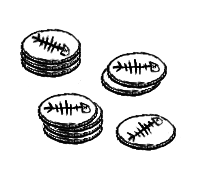
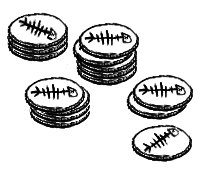
adds underlay for cat-A-log and 5 coin stack

Changed region(s): [[0.0288, 0.0549, 0.9519, 0.9066], [0.5769, 0.6593, 0.6058, 0.6868]]

diff --git a/index.html b/index.html
@@ -117,13 +117,14 @@
             game.load.image('storeBackground', 'assets/images/catalog.png');
             game.load.image('storeForeground', 'assets/images/catalogalpha.png');
             game.load.image('storeCloseButton', 'assets/images/closebutton.png');
+            game.load.image('storeOpenButton', 'assets/images/catalogtag.png');
 
             game.load.bitmapFont('child', 'assets/images/ashcan.png', 'assets/images/ashcan.fnt');
 
             game.load.spritesheet('decktext', 'assets/images/decktext202x34.png', 202, 34, 5);
             game.load.spritesheet('cvalue', 'assets/images/cvalue60x70.png', 60, 70, 13);
             game.load.spritesheet('csuit', 'assets/images/csuits100x100.png', 100, 100, 4);
-            game.load.spritesheet('coinstack', 'assets/images/fishcoins75x55.png', 75, 55, 5);
+            game.load.spritesheet('coinstack', 'assets/images/fishcoins75x65x6.png', 75, 65, 6);
 
             game.load.spritesheet('catimages', 'assets/images/prisoncat828x620te.png', 828, 620, 6);
 
@@ -163,9 +164,9 @@
             betButton.inputEnabled = true;
             betButton.input.useHandCursor = true;
             betButton.events.onInputDown.add(betButtonAction, this);
-            betlabel = betButton.addChild(game.make.sprite(-35, 30, 'bettext'));
+            betlabel = betButton.addChild(game.make.sprite(-35, 35, 'bettext'));
             betlabel.scale.setTo(.75);
-            betL = game.make.bitmapText(0, 70, 'child', "$" + betAmount.toFixed(2).toString(), 24);
+            betL = game.make.bitmapText(0, 75, 'child', "$" + betAmount.toFixed(2).toString(), 24);
             betL.anchor.set(0.5);
             betButton.addChild(betL);
 
@@ -218,9 +219,14 @@
             prunoItem.scale.setTo(0.4);
             prunoItem.visible = false;
 
-            openStoreButton = game.add.bitmapText(20, 20, 'child', "cat-A-log", 24);
+            openStoreButton = game.add.sprite(80, 30, "storeOpenButton");
+            openStoreButton.anchor.set(0.5);
+            openStoreButton.scale.setTo(0.5);
+            openStoreText = game.make.bitmapText(0, 0, 'child', "cat-A-log", 48);
+            openStoreText.anchor.set(0.5);
             openStoreButton.inputEnabled = true;
             openStoreButton.events.onInputDown.add(_ => store.visible = true, this);
+            openStoreButton.addChild(openStoreText);
 
             store = game.add.sprite(game.world.centerX, game.world.centerY, "storeBackground");
             store.anchor.set(0.5);
